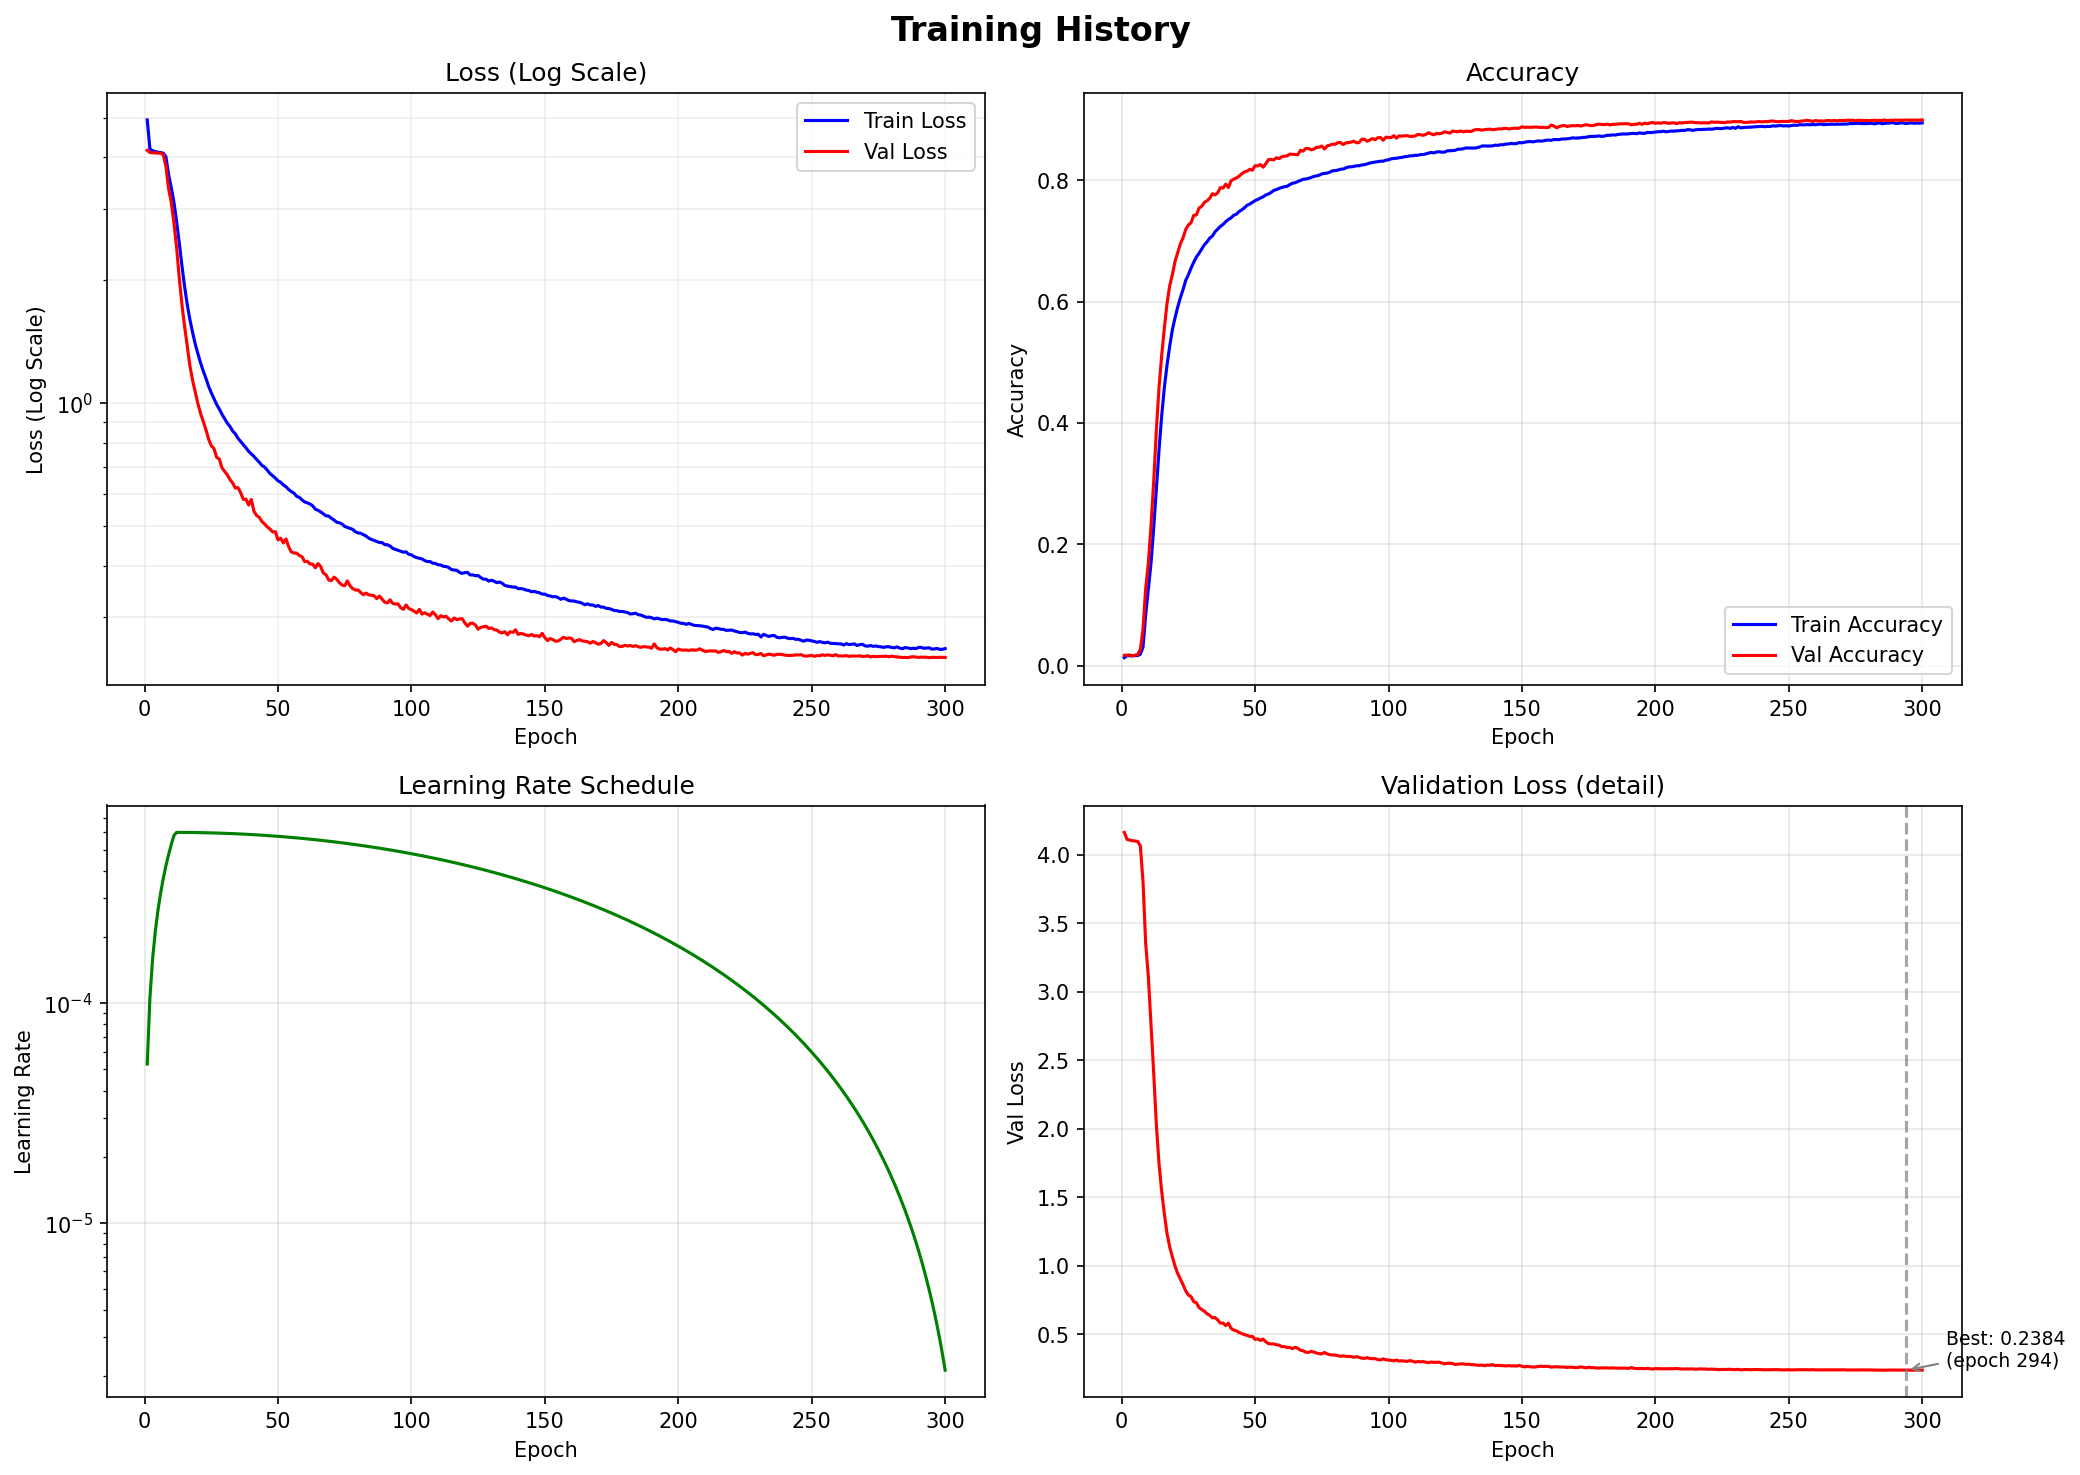
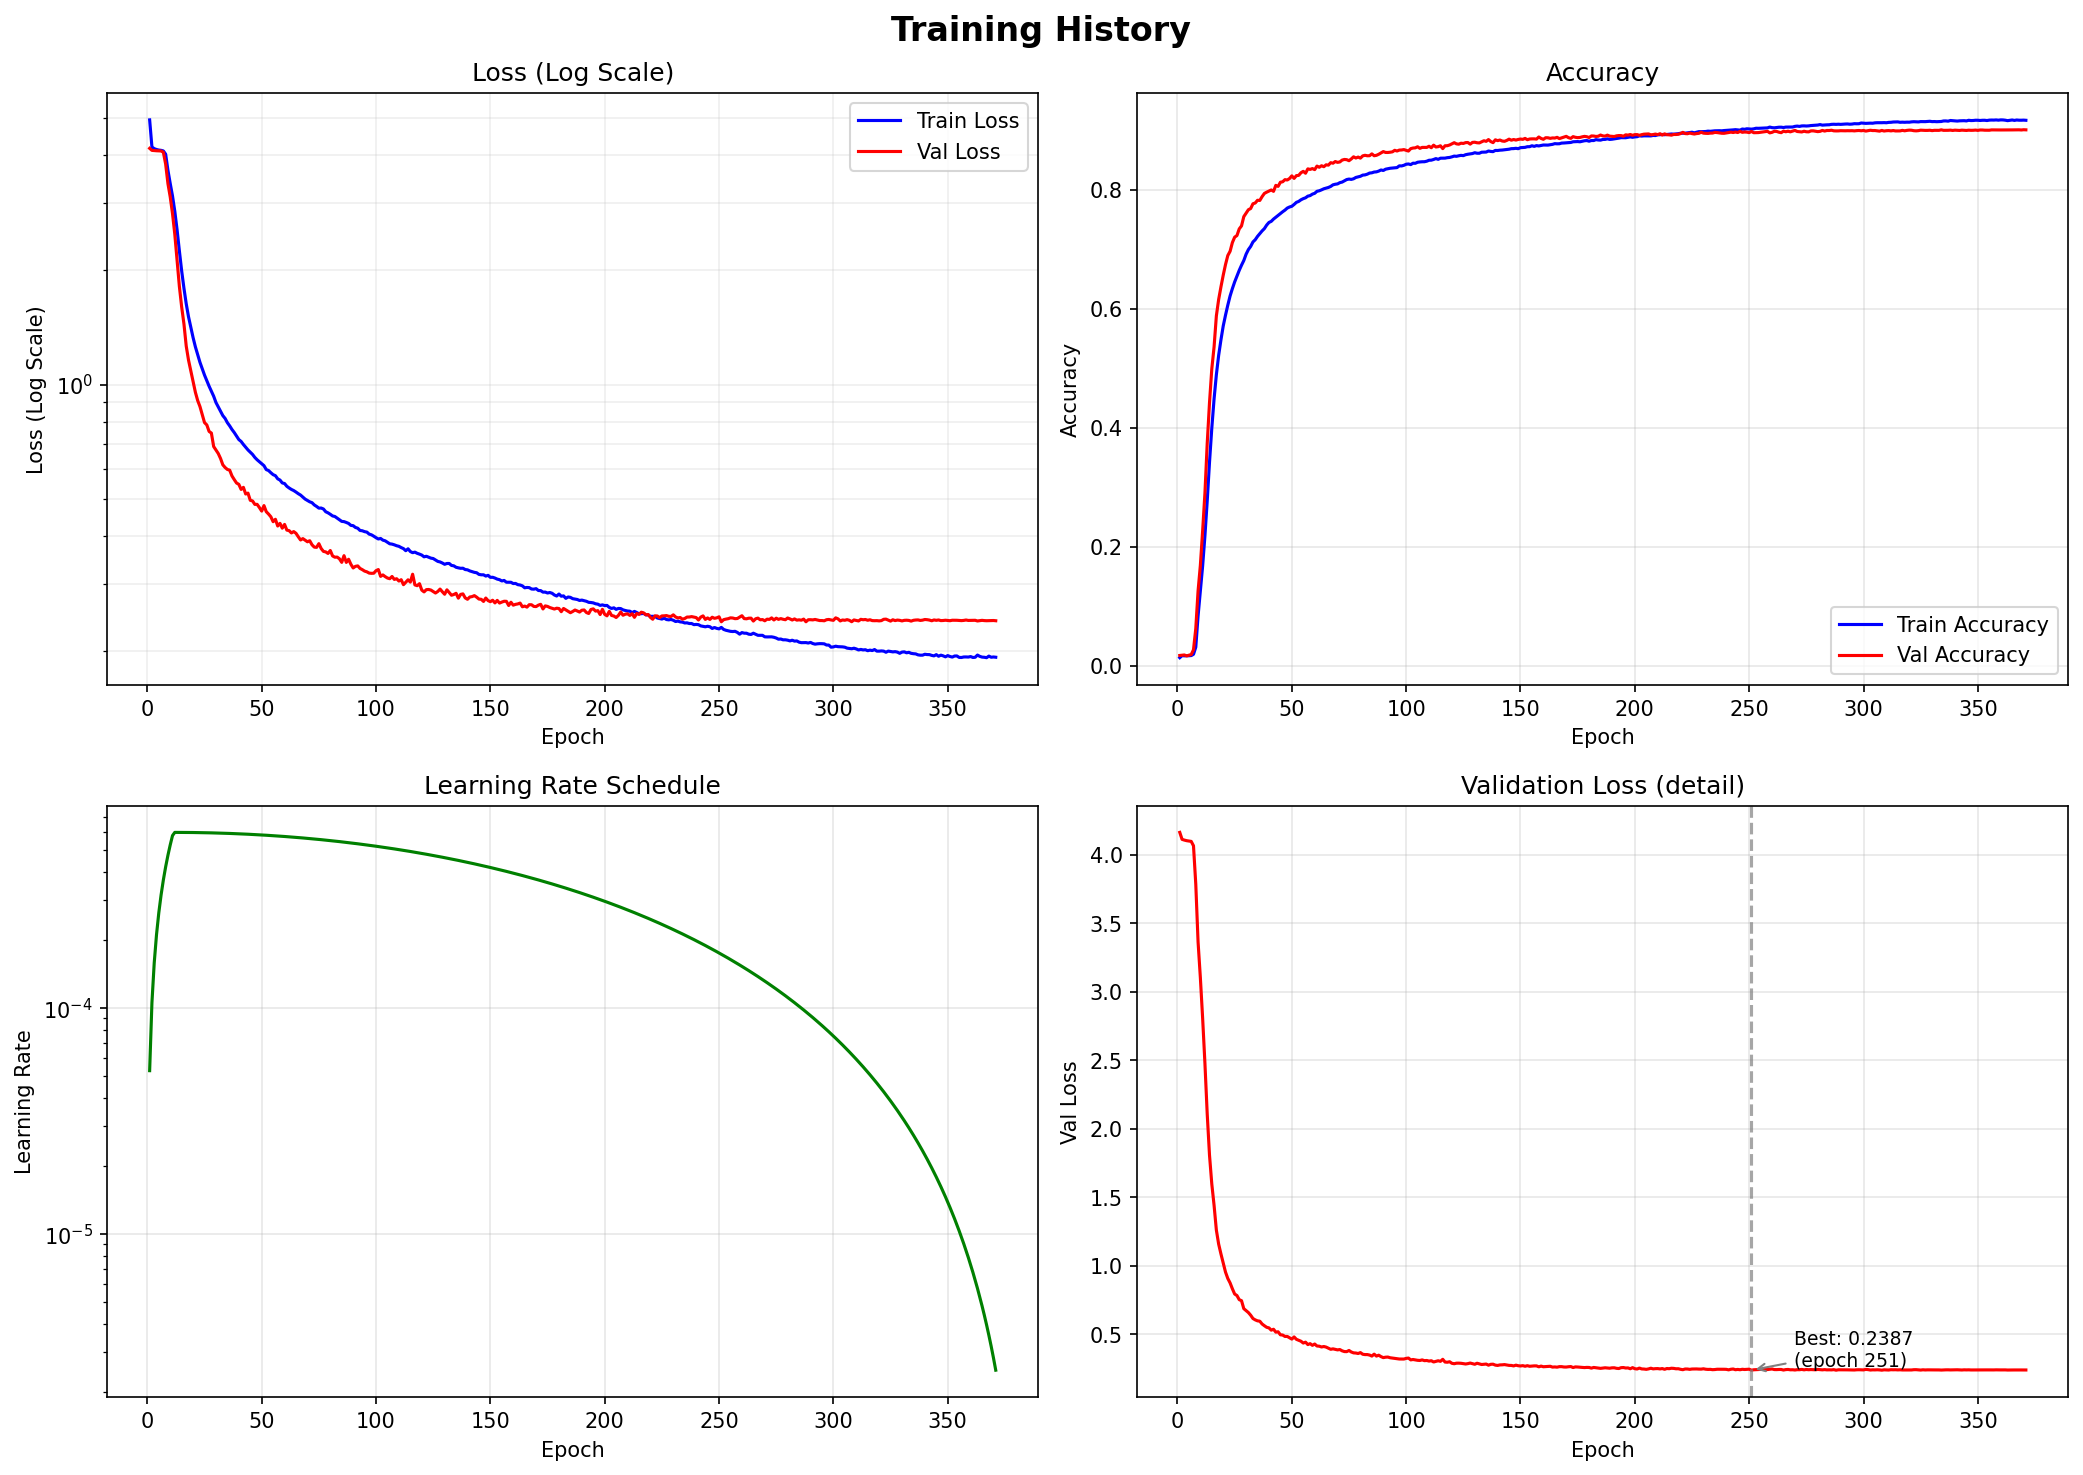
train failure val loss 0.2387

diff --git a/src/train.py b/src/train.py
@@ -59,7 +59,7 @@ NUM_HEADS = 4
 NUM_LAYERS = 4
 DFF = 256
 DROPOUT_RATE = 0.1
-EPOCHS = 450
+EPOCHS = 375
 BATCH_SIZE = 256
 
 # 计算 patch 数量

diff --git a/train-log.md b/train-log.md
@@ -309,7 +309,11 @@ Epoch 20/150
 
 又想到或许直接保留1e5最小lr，然后直接提升patience说不准有用(failed, val loss 0.2728 worse)
 
-好像后期loss有点太大，尝试改成300epoch试试。但是根据lossplot，判断一下，如果不出意外，或许该加正则化了
+好像后期loss有点太大，尝试改成300epoch试试(failed)
+
+375 epoch (failed)
+
+。但是根据lossplot，判断一下，如果不出意外，或许该加正则化了
 
 上面所有提高lr下限以后的实验都作废（其实只有裸的增加patience作废
 
